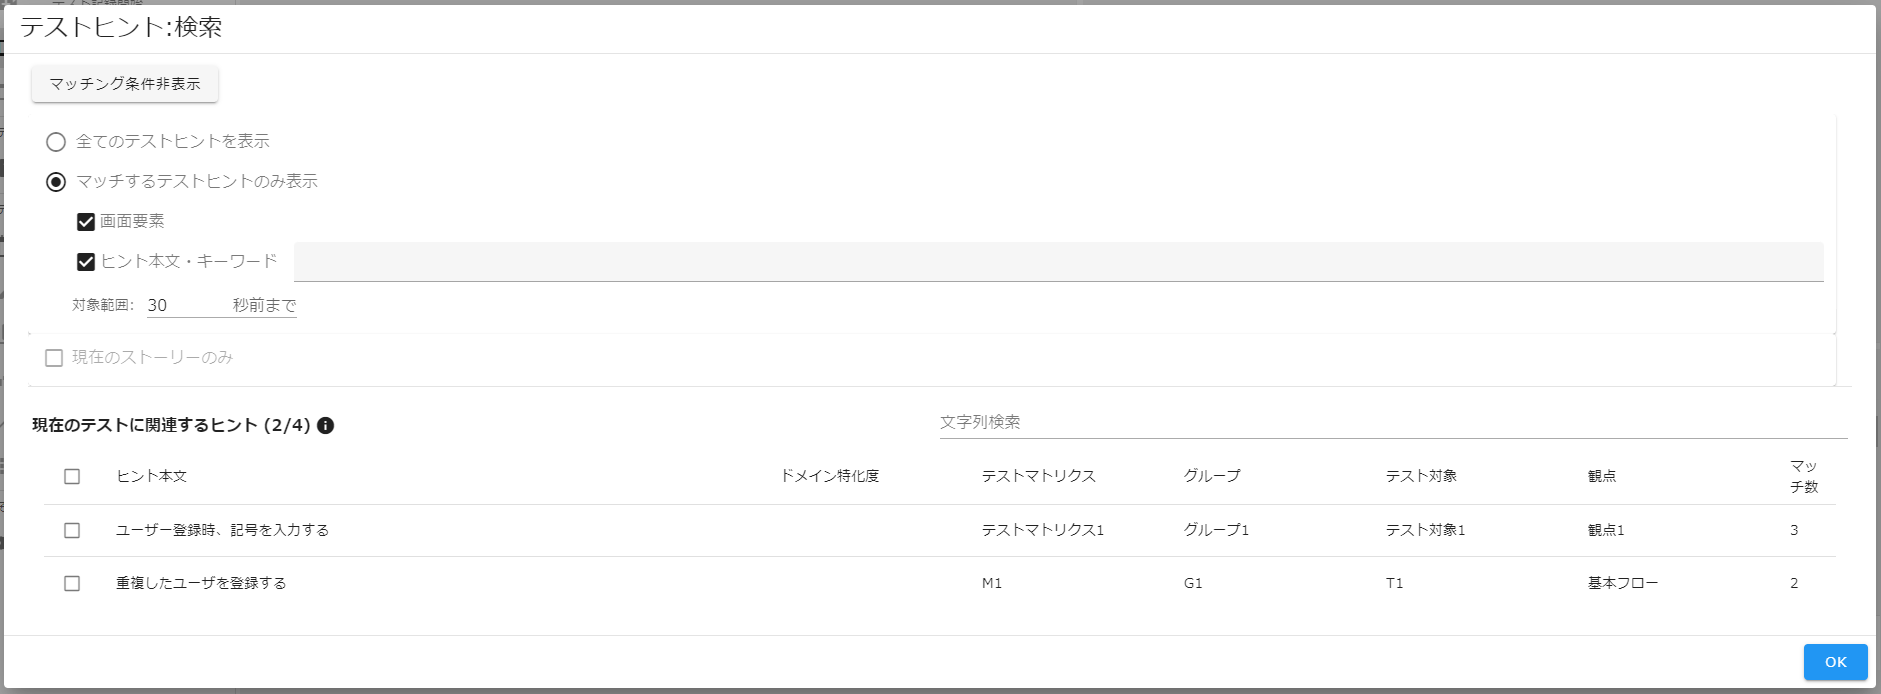
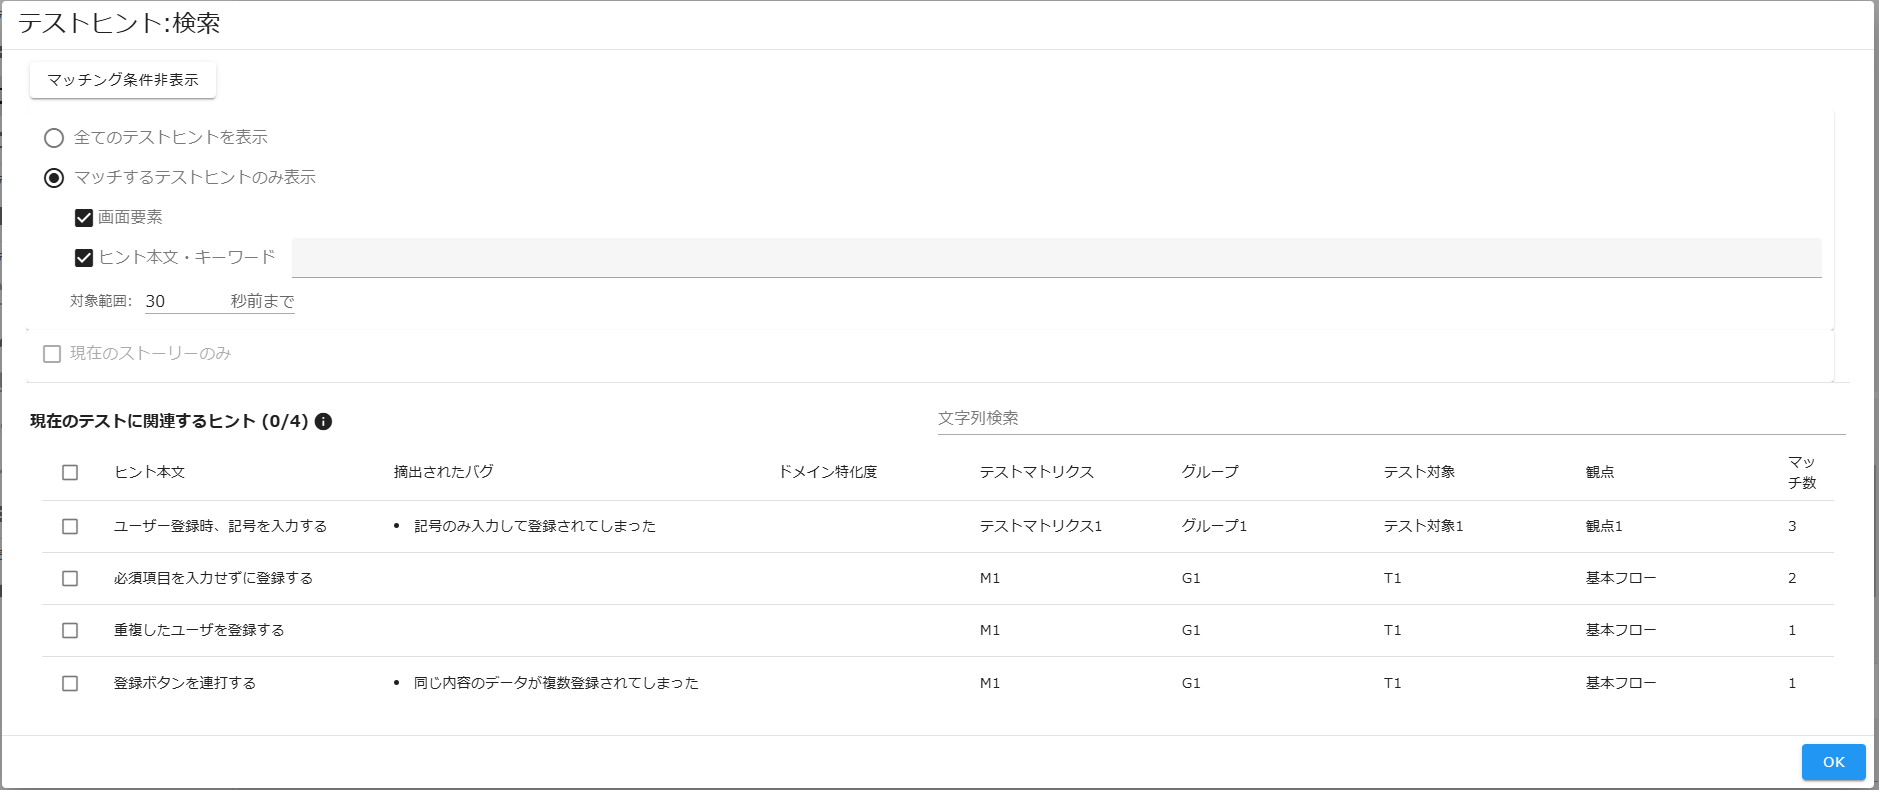
fix #1496 fix test hint manual

diff --git a/docs/manual/test-design-support/manual-test-design-support.md b/docs/manual/test-design-support/manual-test-design-support.md
@@ -28,7 +28,7 @@
 
 <img src="./images/edit-custom-field-dialog.png"/>
 
-押下するとカスタムフィールド編集ダイアログが表示され、以下の必須項目以外のカラムを追加・編集・削除することができます。
+押下するとカスタムフィールド編集ダイアログが表示され、以下の項目以外のカラムを追加・編集・削除することができます。
 
 - 必須項目
   - ヒント本文
@@ -36,8 +36,12 @@
   - グループ
   - テスト対象
   - 観点
+- 任意項目
+  - 摘出されたバグ
 
 :bulb: デフォルトでは「ドメイン特化度」がカスタムフィールドの一つとして用意されており、例えばドメイン特化度:1 では特定のドメインに限定しない汎用的に適用可能なヒントとして、ドメイン特化度:5 では特定のドメインに特化したヒントとしてそれぞれ定義することで、テストヒント検索時の絞り込みに活用することができます。
+
+:bulb: 「摘出されたバグ」は、補足情報としてそれぞれのテストヒントが検出できるバグの例を入力できます。
 
 ## テストヒント登録ボタン
 
